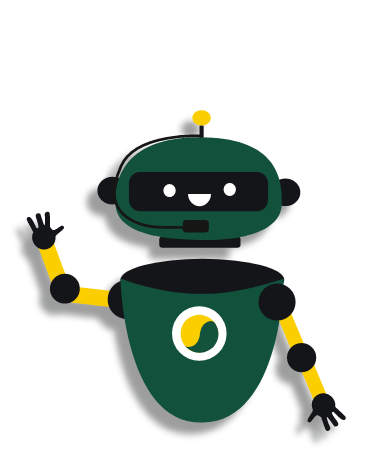
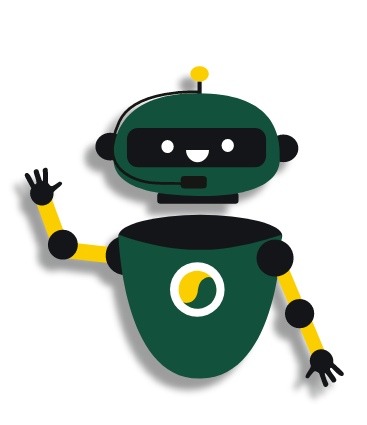
Opdateret bot og fonts

Changed region(s): [[0.03, 0.1529, 0.9591, 0.9482], [0.5995, 0.8565, 0.6594, 0.8871], [0.6594, 0.8259, 0.6894, 0.8565]]

diff --git a/forside.css b/forside.css
@@ -1,49 +1,54 @@
 body {
-    margin: 0;
-    font-family: Arial, sans-serif;
-    background-color: #191B1F;
-  }
-  
-  header {
-    display: flex;
-    justify-content: space-between;
-    align-items: center;
-    padding: 10px 20px;
-    background-color: #191B1F;
-    border-bottom: 3px solid #ffd700;
-  }
-  
-  .logo img {
-    width: 49px;
-    height: 49px;
-  }
-  
+  margin: 0;
+  font-family: Arial, sans-serif;
+  background-color: #191B1F;
+}
 
-  
-  .button {
-    background-color: #F4D813;
-    color: #0A0B0C;
-    padding-left: 14px;
-    border: none;
-    border-radius: 30px;
-    cursor: pointer;
-    font-weight: bold;
-    font-family: system-ui, -apple-system, BlinkMacSystemFont, 'Segoe UI', Roboto, Oxygen, Ubuntu, Cantarell, 'Open Sans', 'Helvetica Neue', sans-serif;
-    font-size: 10px;
-    display: flex;
-    align-items: center;
-    width: 93px;
-    height: 25px;
-   
+@font-face {
+  font-family: Domine;
+  src: url(https://fonts.google.com/specimen/Domine);
+}
+
+header {
+  display: flex;
+  justify-content: space-between;
+  align-items: center;
+  padding: 10px 20px;
+  background-color: #191B1F;
+  border-bottom: 3px solid #ffd700;
+  position: relative;
+  z-index: 2; /* Sæt en z-index for at placere header foran baggrunden */
+}
+
+.logo img {
+  width: 49px;
+  height: 49px;
+}
+
+.button {
+  background-color: #F4D813;
+  color: #0A0B0C;
+  padding-left: 14px;
+  border: none;
+  border-radius: 30px;
+  cursor: pointer;
+  font-weight: bold;
+  font-size: 10px;
+  font-family: Domine;
+  display: flex;
+  align-items: center;
+  width: 93px;
+  height: 25px;
+
 }
 
 .button img {
-    max-width: 20px; /* Juster denne værdi for at ændre billedets maksimale bredde */
-    max-height: 20px; /* Juster denne værdi for at ændre billedets maksimale højde */
-    margin-left: 3px; /* Juster denne værdi efter behov for at ændre afstanden mellem teksten og billedet */
-  }
+  max-width: 20px;
+  max-height: 20px;
+  margin-left: 3px;
+}
 
-.container{
+.container {
   display: flex;
   justify-content: center;
   flex-direction: column;
@@ -51,34 +56,51 @@ body {
   align-items: center;
   width: 100%;
   height: auto;
+  position: relative;
+  z-index: 1; /* Sæt en z-index for at placere container foran baggrunden */
 }
-  
-h1{
+
+h1 {
   font-size: 25px;
   color: white;
   padding-top: 10px;
+  font-family: Domine;
 }
 
-p{
+p {
   font-size: 12px;
+  font-family: Domine;
   color: white;
-  background-color: #707070;
+  background-color: #24282C;
   border: 5px, 0px, 5px, 0px;
   padding: 10px;
 }
 
-#gultekst{
+#gultekst {
   color: #F4D813;
 }
 
-.button2{
+.button2 {
   background-color: #F4D813;
   color: #000000;
   font-size: 15px;
+  font-family: Domine;
   width: 228px;
   height: 48px;
   padding: 10px 20px;
   border: none;
+  margin: 30px;
   border-radius: 5px;
   cursor: pointer;
+}
+
+.background-container {
+  position: absolute;
+  top: 0;
+  left: 0;
+  width: 100%;
+  height: 100vh;
+  background-size: cover;
+  margin-top: 45px;
+  z-index: 0; /* Sæt en z-index for at placere baggrunden bag alt andet indhold */
 }

diff --git a/forside.html b/forside.html
@@ -48,7 +48,7 @@
 <main>
   <div class="container">
     <h1>Vi er <span id="gultekst">turen</span> værd</h1>
-    <img src="billeder/sunsetai.png" alt="SunsetAiBot">
+    <img src="billeder/sunsetbot.png" alt="SunsetAiBot">
     <p>Få en snak med vores <span id="gultekst">Sunset-bot</span> og find ud af hvorfor Sunset er turen værd! Snak dig til diverse <span id="gultekst">fordele</span> og <span id="gultekst">rabatter</span>. Alt sammen er bare en samtale væk.</p>
     <button class="button2">Snak med sunset-bot</button>
   </div>
@@ -58,10 +58,9 @@
 
 
 
-
-
-
-
+<div class="background-container">
+<img src="billeder/baggrundsti.png" id="baggrund" alt="Baggrundssti">
+</div>
 
 
 </body>
